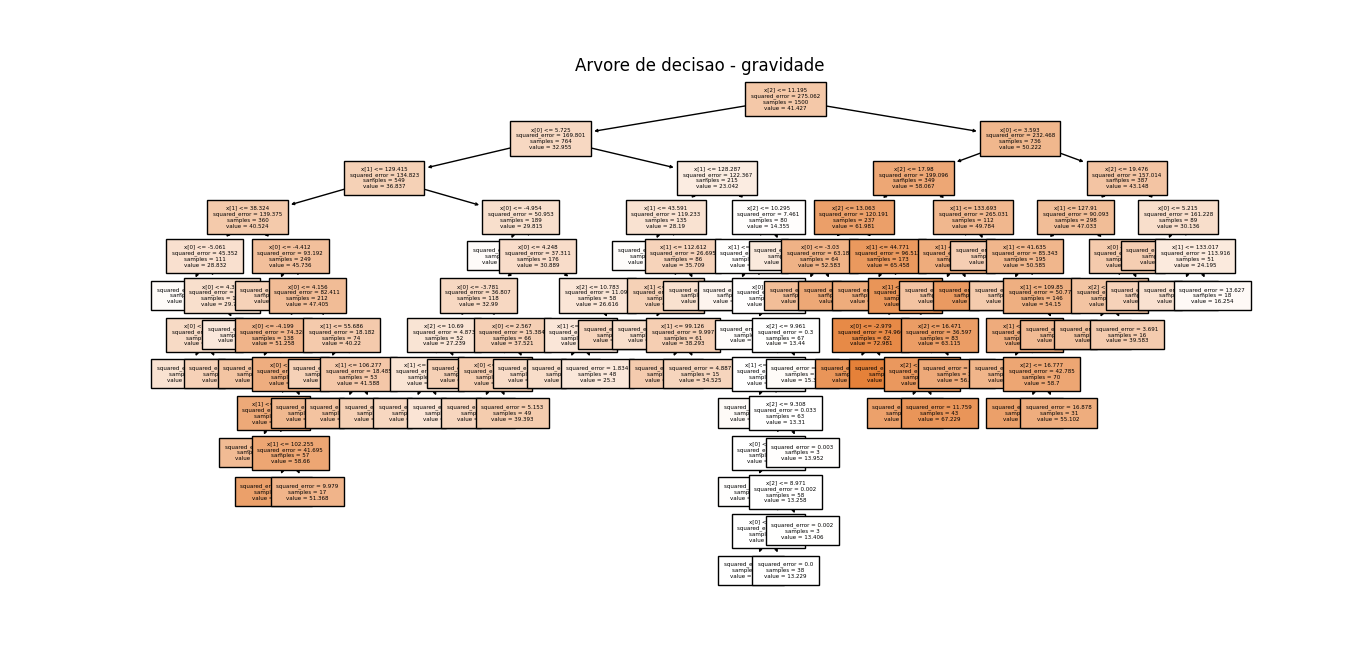
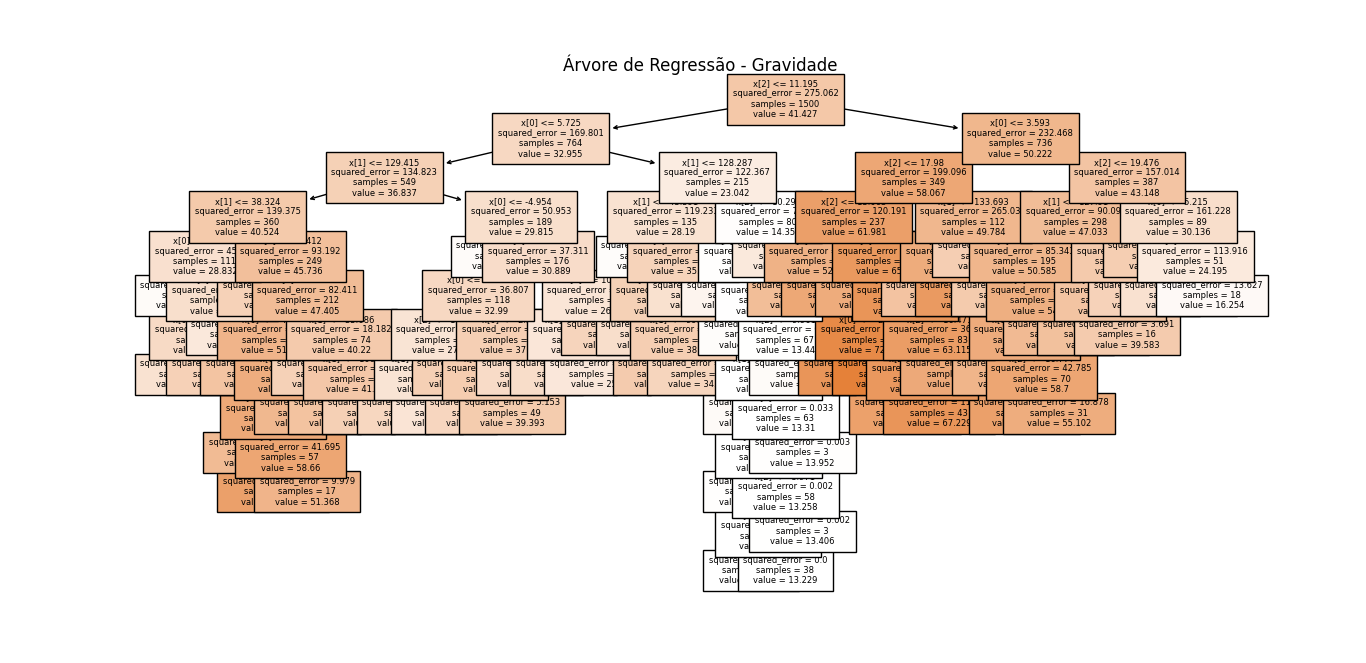
clean tree generator and add random forest generator

Changed region(s): [[0.0922, 0.0905, 0.9224, 0.905]]

diff --git a/random_forest/generate_forest.py b/random_forest/generate_forest.py
@@ -1,0 +1,87 @@
+from sklearn.model_selection import cross_val_score
+import matplotlib.pyplot as plt
+import numpy as np
+from matplotlib.colors import ListedColormap
+from sklearn.ensemble import RandomForestClassifier, RandomForestRegressor
+
+class Sample():
+    def __init__(self, id, qpa, pulso, resp, gravidade, classe_grav):
+        self.id = id
+        self.qpa = qpa
+        self.pulso = pulso
+        self.resp = resp
+        self.gravidade = gravidade
+        self.classe_grav = classe_grav
+
+samples = []
+arq = open("../treino_sinais_vitais_com_label.txt")
+linhas = arq.readlines()
+for linha in linhas:
+    sample = linha.split(',')
+    samples.append(Sample(int(sample[0]), float(sample[3]), float(sample[4]), 
+                          float(sample[5]), float(sample[6]), int(sample[7])))
+
+input_data = []
+gravidade = []
+gravidade_2 =[]
+classe_grav = []
+for sample in samples:
+    input_data.append([sample.qpa, sample.pulso, sample.resp])
+    gravidade.append(sample.gravidade)
+    gravidade_2.append([sample.gravidade])
+    classe_grav.append(sample.classe_grav)
+
+# Parameters
+reg = RandomForestRegressor(min_samples_split=20, n_estimators= 100, 
+                            max_features=3).fit(input_data, gravidade)
+print("Regression forest score:")
+print(reg.score(input_data, gravidade))
+clf = RandomForestClassifier(criterion="entropy", min_samples_split=20,
+                              n_estimators=100, max_features=2).fit(gravidade_2, classe_grav)
+print("Classifier forest score:")
+#print(clf.score(gravidade_2, classe_grav))
+gravidade_estimada = reg.predict(input_data)
+gravidade_estimada_2 = []
+for grav in gravidade_estimada:
+    gravidade_estimada_2.append([grav])
+print(clf.score(gravidade_estimada_2, classe_grav))
+#scores = cross_val_score(reg,input_data,gravidade, cv=5)
+#print(scores.mean())
+
+plot_step = 0.02  # fine step width for decision surface contours
+plot_step_coarser = 0.5  # step widths for coarse classifier guesses
+cmap = plt.cm.RdYlBu
+RANDOM_SEED = 13  # fix the seed on each iteration
+
+plt.subplot(3, 4, 1)
+    # Add a title at the top of each column
+plt.title("Random Forest", fontsize=9)
+# Now plot the decision boundary using a fine mesh as input to a
+# filled contour plot
+input_data_2 = []
+input_data_3 = []
+for data in input_data:
+    input_data_2.append(data[1])
+    input_data_3.append(data[2])
+plt.scatter(
+    input_data_2,
+    input_data_3,
+    c=classe_grav,
+    cmap=ListedColormap(["r", "y", "b"]),
+    edgecolor="k",
+    s=20,
+)
+
+plt.suptitle("Classe de gravidade", fontsize=12)
+plt.axis("tight")
+plt.tight_layout(h_pad=0.2, w_pad=0.2, pad=2.5)
+plt.show()
+
+# plt.figure()
+# plot_tree(reg, filled=True, fontsize=6)
+# plt.title("Árvore de Regressão - Gravidade")
+
+# plt.figure()
+# plot_tree(clf, filled=True, fontsize=7)
+# plt.title("Árvore de Decisão - Classe de Gravidade")
+# plt.show()

diff --git a/decision_tree/generate_tree.py b/decision_tree/generate_tree.py
@@ -1,10 +1,4 @@
-from sklearn.datasets import load_iris
-
 import matplotlib.pyplot as plt
-import numpy as np
-
-from sklearn.datasets import load_iris
-from sklearn.inspection import DecisionBoundaryDisplay
 from sklearn.tree import DecisionTreeClassifier, DecisionTreeRegressor
 from sklearn.tree import plot_tree
 
@@ -36,18 +30,23 @@ for sample in samples:
     classe_grav.append(sample.classe_grav)
 
 # Parameters
-reg = DecisionTreeRegressor(min_samples_split=20).fit(input_data, gravidade)
+reg = DecisionTreeRegressor(min_samples_split=50).fit(input_data, gravidade)
 print("Regression tree score:")
 print(reg.score(input_data, gravidade))
 clf = DecisionTreeClassifier(criterion="entropy", min_samples_split=20).fit(gravidade_2, classe_grav)
 print("Classifier tree score:")
-#print(clf.score(input_data, classe_grav))
-reg.score()
+#print(clf.score(gravidade_2, classe_grav))
+gravidade_estimada = reg.predict(input_data)
+gravidade_estimada_2 = []
+for grav in gravidade_estimada:
+    gravidade_estimada_2.append([grav])
+print(clf.score(gravidade_estimada_2, classe_grav))
+
 plt.figure()
-plot_tree(reg, filled=True, fontsize=4)
+plot_tree(reg, filled=True, fontsize=6)
 plt.title("Árvore de Regressão - Gravidade")
 
 plt.figure()
-plot_tree(clf, filled=True, fontsize=4)
+plot_tree(clf, filled=True, fontsize=7)
 plt.title("Árvore de Decisão - Classe de Gravidade")
 plt.show()
